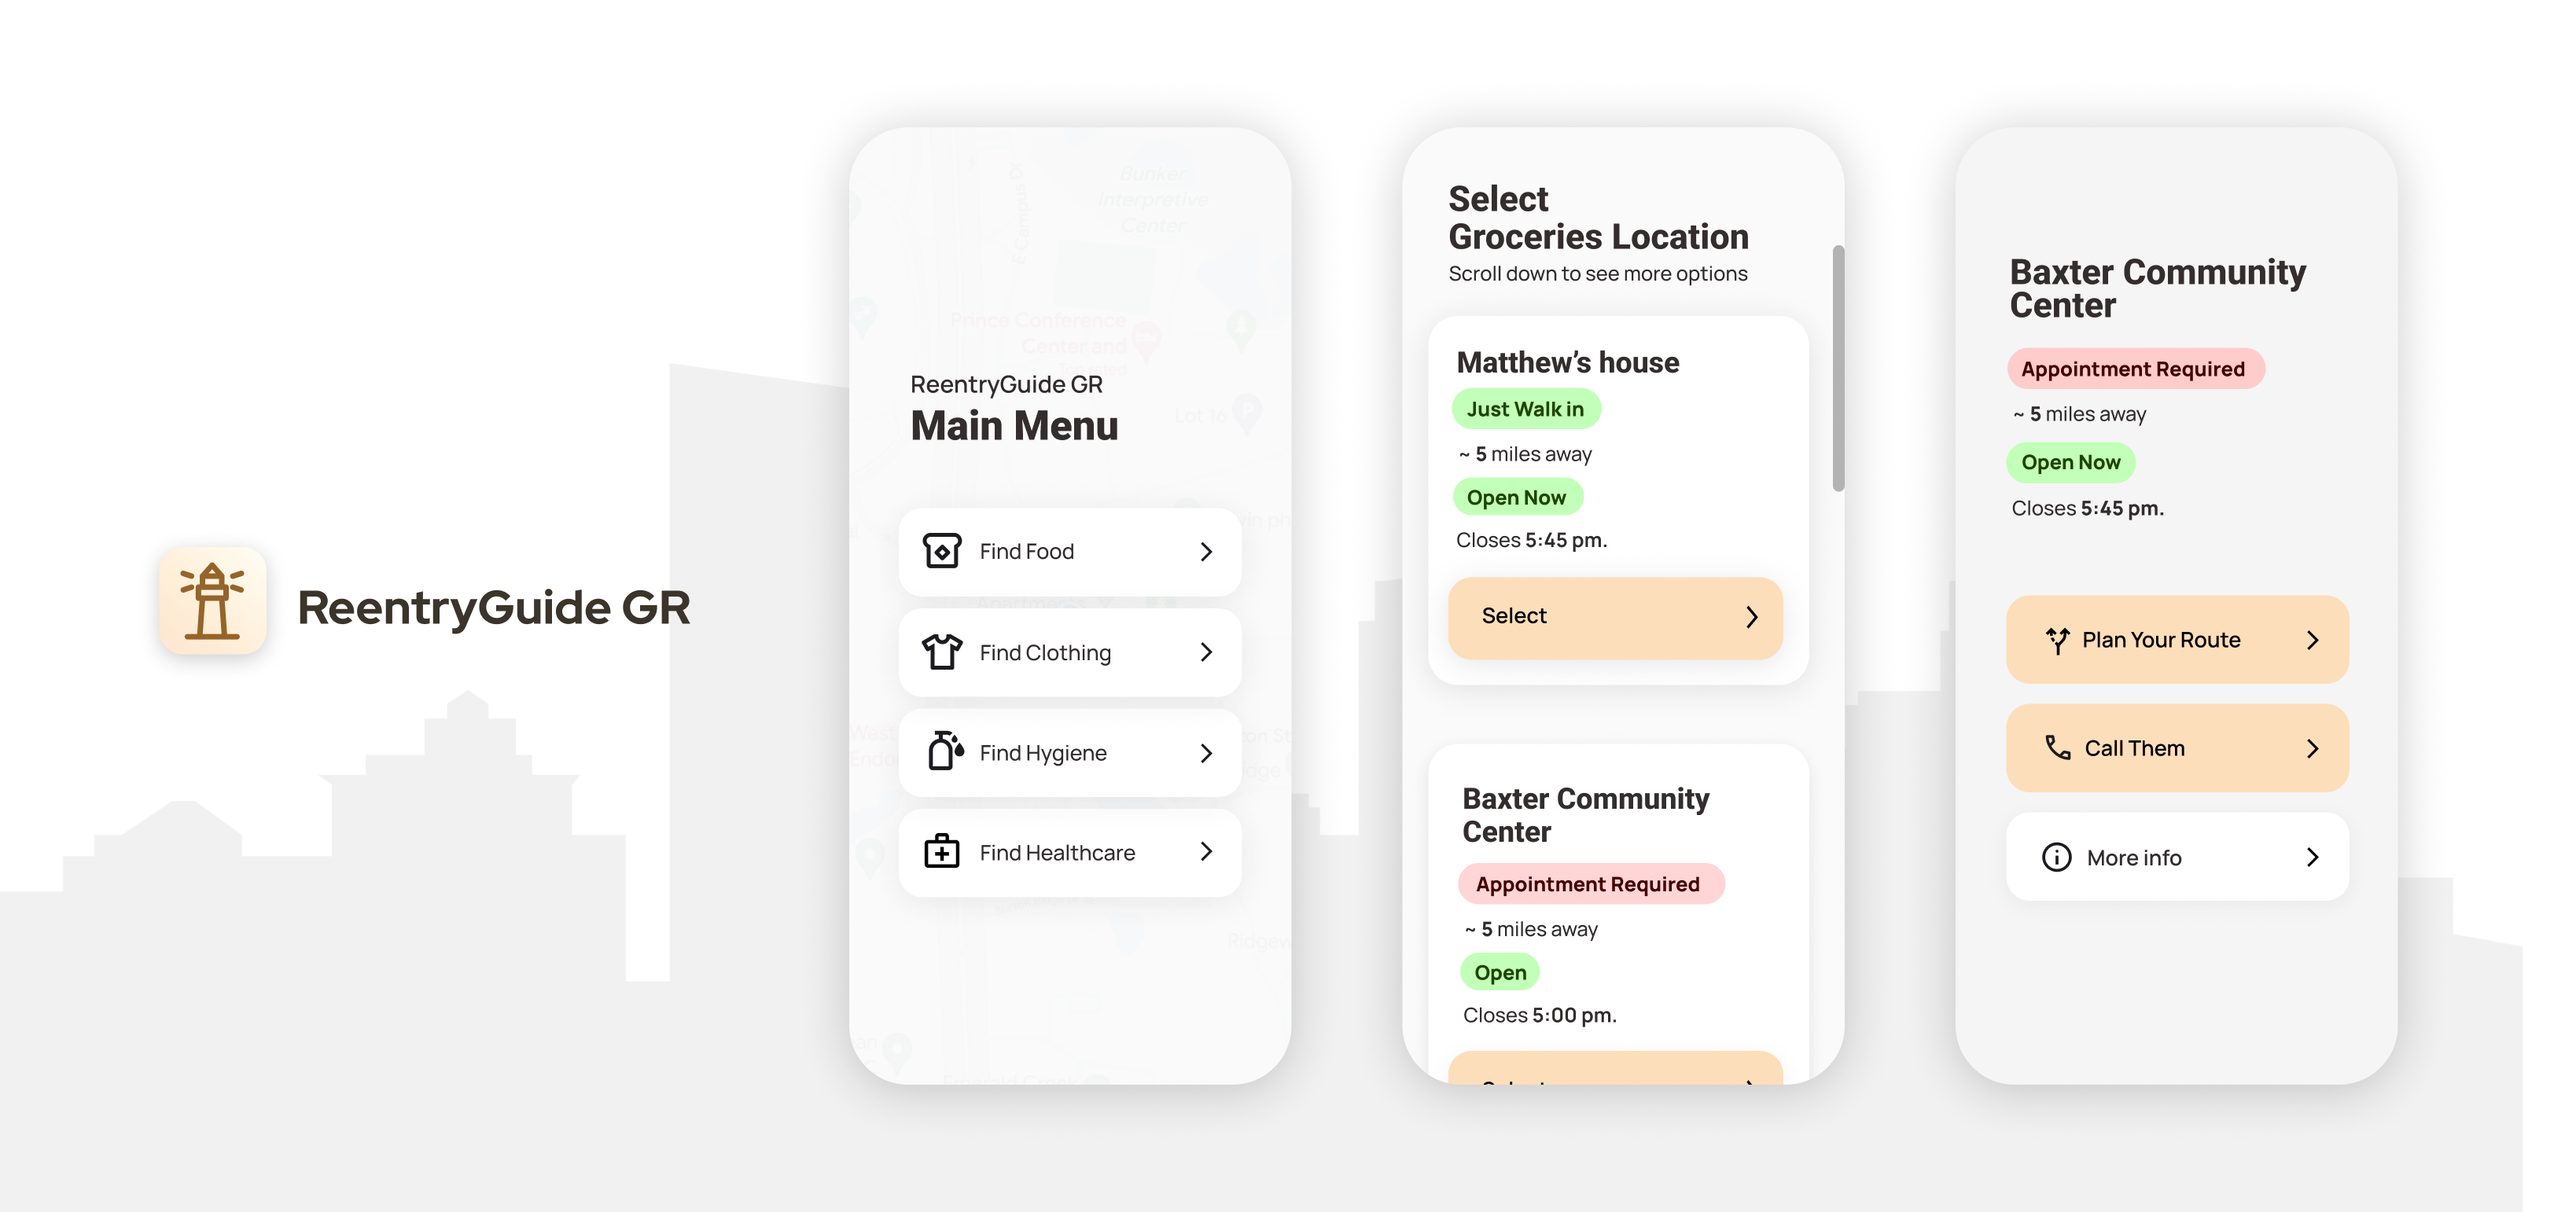
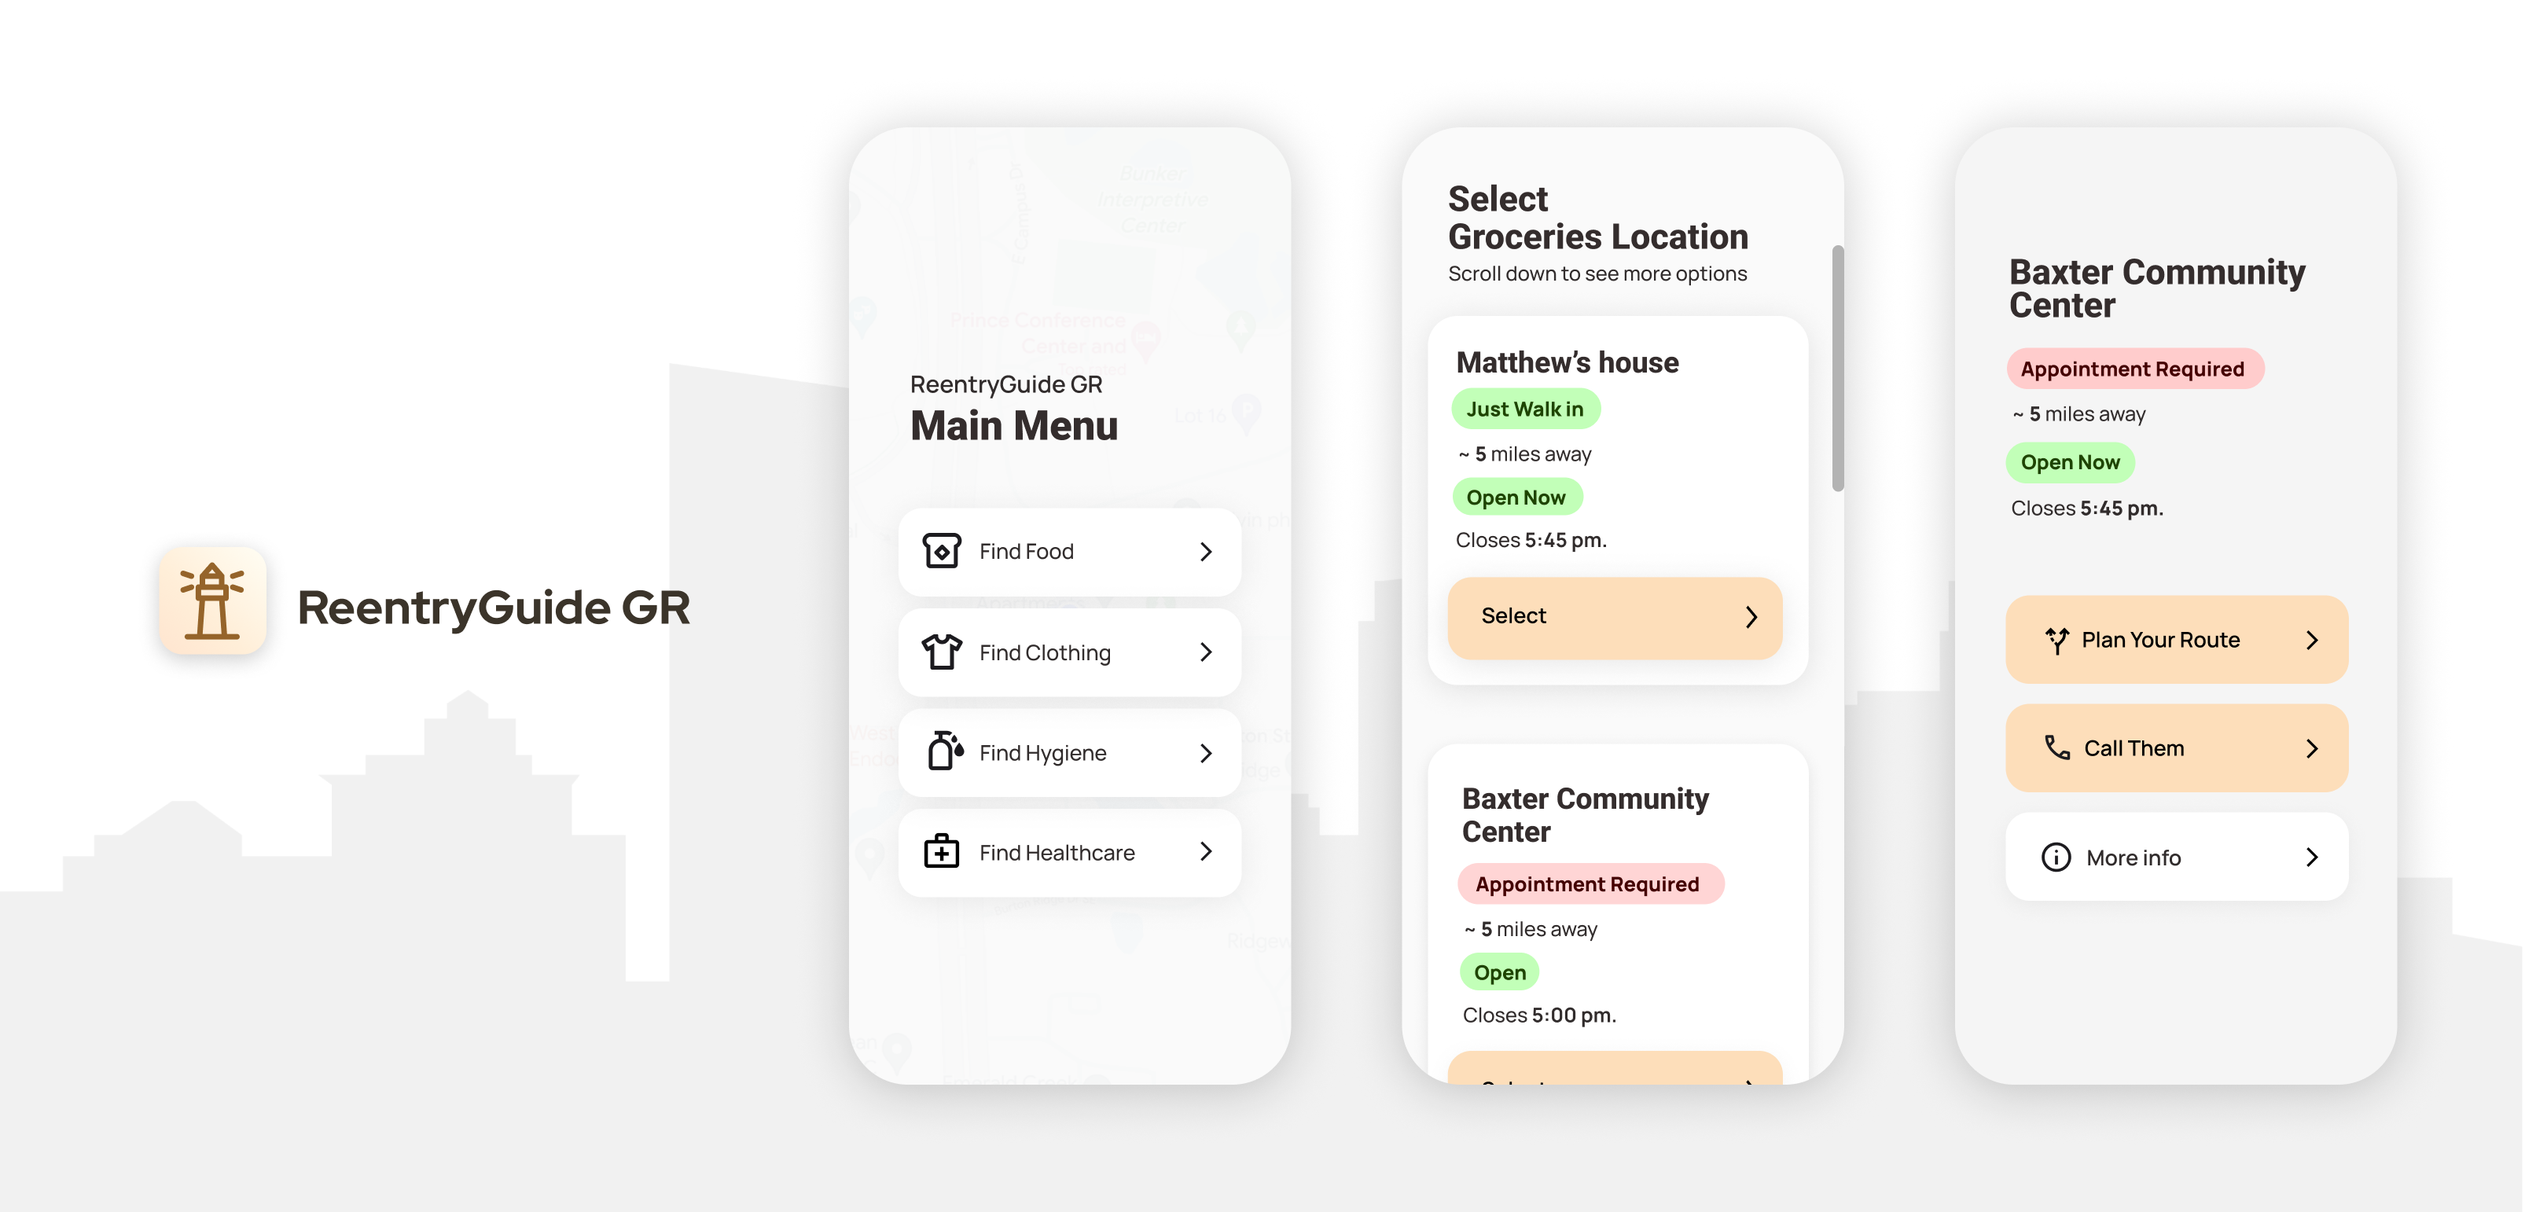
fixed cover image

diff --git a/reentryguide-gr.html b/reentryguide-gr.html
@@ -116,8 +116,8 @@
     <div class="lg:pb-1 grid grid-cols-1  md:grid-cols-2 lg:grid-cols-3 text-white bg-[#141414]">
       <!-- text block -->
       <div class="md:col-span-3 bg-[#EDE7E7] transition sm:min-h-[150px] h-fit">
-        <img class="hidden md:block rounded-2xl lg:rounded-l-none drop-shadow-[0_10px_8px_rgba(0,0,0,0.05)]" src="./images/ReentryGuide-GR/mockup.png" alt="">
-        <img class="block md:hidden rounded-2xl lg:rounded-l-none drop-shadow-[0_10px_8px_rgba(0,0,0,0.05)]" src="./images/ReentryGuide-GR/mockup-mobile.png" alt="">
+        <img class="hidden md:block drop-shadow-[0_10px_8px_rgba(0,0,0,0.05)]" src="./images/ReentryGuide-GR/mockup.png" alt="">
+        <img class="block md:hidden drop-shadow-[0_10px_8px_rgba(0,0,0,0.05)]" src="./images/ReentryGuide-GR/mockup-mobile.png" alt="">
       </div>
       <div class="md:col-span-2 lg:col-span-1 px-16 py-5 lg:py-[4em] pt-20 flex flex-col justify-start items-start transition bg-grey-500 min-h[30px] text-center ">
         <p class="font-RedHatDisplay text-left inline-flex font-semibold text-2xl">ReentryGuide GR</p>
